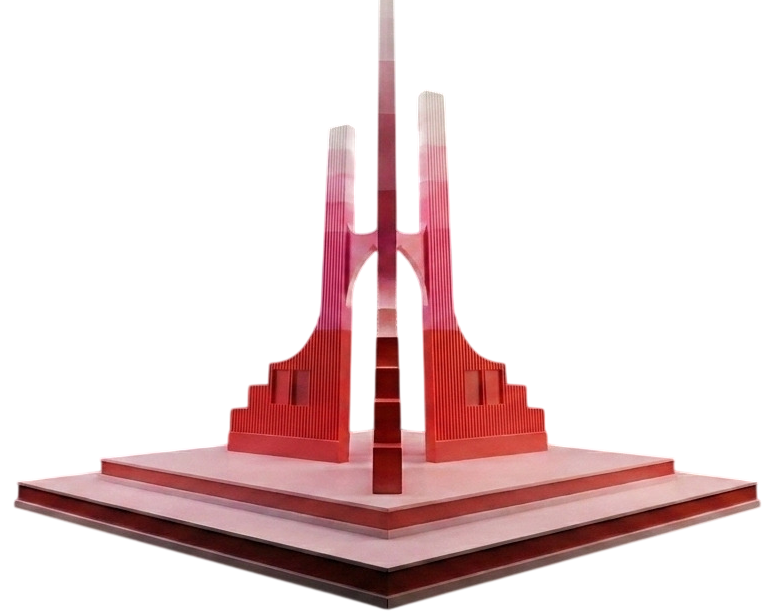
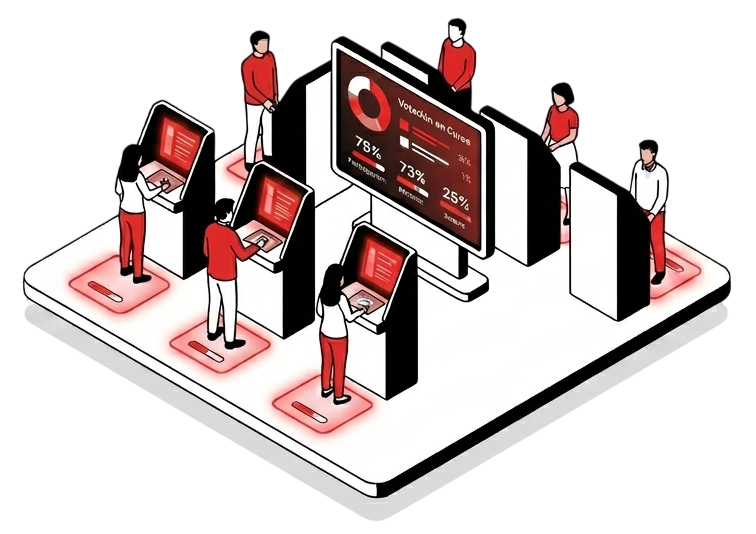
fix:imagenes cambiadas

diff --git a/src/lib/sections/index/Technology.svelte b/src/lib/sections/index/Technology.svelte
@@ -1,69 +1,46 @@
 <script lang="ts">
-	// Technology section — landing redesign (PR 3).
-	// Source markup: consensus-landing.html. No state, no props.
-	import technologyImg from '$lib/assets/technology.png';
+  // Technology section — landing redesign (PR 3).
+  // Source markup: consensus-landing.html. No state, no props.
+  import technologyImg from "$lib/assets/technology.png";
 </script>
 
 <section class="py-consensus-24 bg-consensus-black text-consensus-white">
-	<div class="max-w-7xl mx-auto px-6 lg:px-8">
-		<div
-			class="grid grid-cols-1 md:grid-cols-2 gap-consensus-16 md:gap-consensus-20 items-center"
-		>
-			<div class="flex flex-col gap-consensus-5">
-				<header class="text-left mb-consensus-8">
-					<span
-						class="block font-mono text-[11px] font-medium tracking-[0.1em] uppercase text-consensus-white/50 mb-consensus-4"
-					>
-						Tecnología
-					</span>
-					<h2
-						class="font-display font-bold leading-[1.1] tracking-[-0.025em] mb-consensus-4 text-[clamp(30px,4vw,46px)]"
-					>
-						Impulsado por matemáticas, asegurado por Blockchain.
-					</h2>
-					<p class="text-lg text-consensus-white/60 leading-[1.55]">
-						Arquitectura de conocimiento cero y libro mayor inmutable para una gobernanza sin
-						precedentes.
-					</p>
-				</header>
-				<div class="flex flex-col gap-consensus-6 mb-consensus-8">
-					<!-- ZK badge: red-tinted background with mono tag using currentColor -->
-					<div
-						class="inline-flex items-center gap-consensus-3 px-consensus-5 py-consensus-4 border border-consensus-red/40 rounded-consensus-md font-display text-sm font-bold tracking-[0.02em] bg-consensus-red/15 text-[#ff6b6b]"
-					>
-						<span
-							class="font-mono text-[10px] font-medium px-[6px] py-[2px] rounded-[3px] bg-current text-consensus-black tracking-[0.05em]"
-						>
-							ZK
-						</span>
-						Arquitectura de Conocimiento Cero (Semaphore)
-					</div>
-					<!-- BC badge: white-tinted background with mono tag using currentColor -->
-					<div
-						class="inline-flex items-center gap-consensus-3 px-consensus-5 py-consensus-4 border border-consensus-white/15 rounded-consensus-md font-display text-sm font-bold tracking-[0.02em] bg-consensus-white/[0.06] text-consensus-white"
-					>
-						<span
-							class="font-mono text-[10px] font-medium px-[6px] py-[2px] rounded-[3px] bg-current text-consensus-black tracking-[0.05em]"
-						>
-							BC
-						</span>
-						Libro Mayor Inmutable (blockchain)
-					</div>
-				</div>
-				<p
-					class="text-sm text-consensus-white/45 leading-[1.7] max-w-[420px]"
-				>
-					Semaphore permite generar identidades privadas vinculadas a un grupo sin revelar cuál
-					miembro sos. Tus votos son contables sin ser rastreables.
-				</p>
-			</div>
-			<div class="flex items-center justify-center aspect-[4/3] rounded-consensus-lg overflow-hidden">
-				<img
-					src={technologyImg}
-					alt="Representacion de tecnologia ZK y blockchain"
-					class="w-full h-full object-contain"
-				/>
-			</div>
-		</div>
-	</div>
+  <div class="max-w-7xl mx-auto px-6 lg:px-8">
+    <div
+      class="grid grid-cols-1 md:grid-cols-2 gap-consensus-16 md:gap-consensus-20 items-center"
+    >
+      <div class="flex flex-col gap-consensus-5">
+        <header class="text-left mb-consensus-8">
+          <span
+            class="block font-mono text-[11px] font-medium tracking-widest uppercase text-consensus-white/50 mb-consensus-4"
+          >
+            Tecnología
+          </span>
+          <h2
+            class="font-display font-bold leading-[1.1] tracking-widest mb-consensus-4 text-[clamp(30px,4vw,46px)]"
+          >
+            Impulsado por matemáticas, asegurado por Blockchain.
+          </h2>
+          <p class="text-lg text-consensus-white/60 leading-[1.55]">
+            Arquitectura de conocimiento cero y libro mayor inmutable para una
+            gobernanza sin precedentes.
+          </p>
+        </header>
+        <p class="text-sm text-consensus-white/45 leading-[1.7] max-w-105">
+          Semaphore permite generar identidades privadas vinculadas a un grupo
+          sin revelar cuál miembro sos. Tus votos son contables sin ser
+          rastreables.
+        </p>
+      </div>
+      <div
+        class="flex items-center justify-center aspect-4/3 rounded-consensus-lg overflow-hidden"
+      >
+        <img
+          src={technologyImg}
+          alt="Representacion de tecnologia ZK y blockchain"
+          class="w-full h-full object-contain"
+        />
+      </div>
+    </div>
+  </div>
 </section>